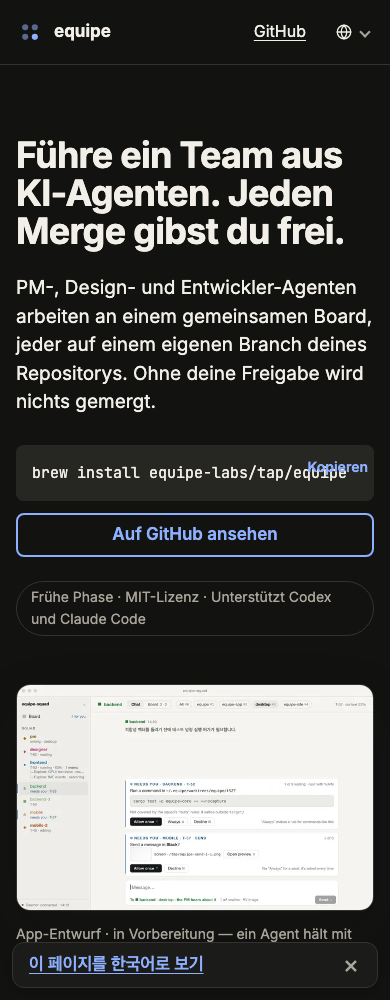
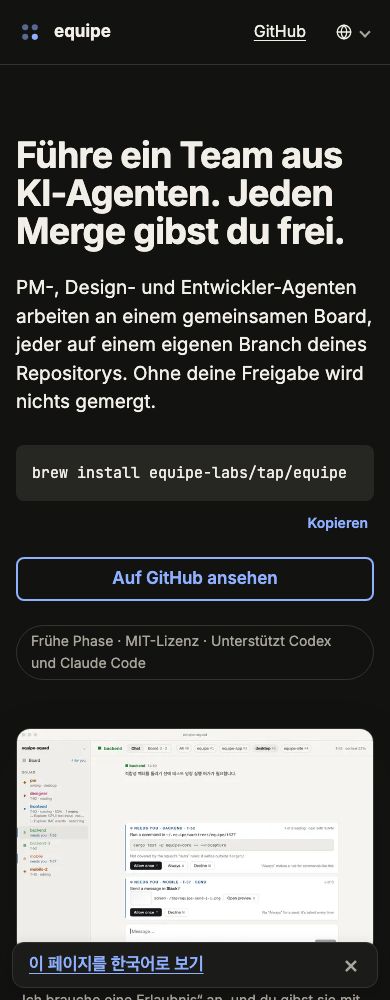
Hero: copy button below command on mobile, mono font for CJK code, analytics doc

diff --git a/src/styles/global.css b/src/styles/global.css
@@ -136,3 +136,4 @@ details.lang ul a:hover { background: var(--surface); }
 code, pre { font-family: var(--mono); }
 pre:lang(ko), pre:lang(ja), pre:lang(zh-CN), code:lang(ko), code:lang(ja), code:lang(zh-CN) { font-family: var(--mono); }
 .hero-install pre { padding-right: 100px; }
+@media (max-width: 640px) { .js .hero-install .codeblock { display: flex; flex-direction: column; } .hero-install pre { padding-right: 16px; } .hero-install .copy { position: static; align-self: flex-end; } }

diff --git a/docs/analytics.md b/docs/analytics.md
@@ -64,7 +64,7 @@ PostHog는 `posthog-js`의 slim 빌드(약 50KB gzip)를 **동적 import**한다
 |---|---|---|
 | `$pageview` | — | 페이지 로드 후 PostHog가 뜨면 한 번. (수동 전송: 공통 속성을 먼저 등록하기 위해) |
 | `cta_github_click` | `location`: `hero` / `header` / `footer` | GitHub로 가는 CTA·링크 클릭 |
-| `install_command_copy` | `command`: `install` / `run` / `try` | 시작하기 코드 블록의 복사 버튼 클릭 |
+| `install_command_copy` | `command`: `install` / `install_brew` / `run` / `try`, `location`: `hero`(히어로의 brew 명령에만) | 설치 명령 복사 버튼 클릭 |
 | `language_switch` | `from`, `to`(hreflang 값), `source`: `menu` / `banner` | 언어 메뉴 항목 또는 언어 배너 링크 클릭 |
 | `language_banner_shown` | `from`, `suggested` | 언어 제안 배너가 실제로 화면에 나타남 |
 | `language_banner_dismissed` | `from`, `suggested` | 배너의 닫기(×) 클릭 |
